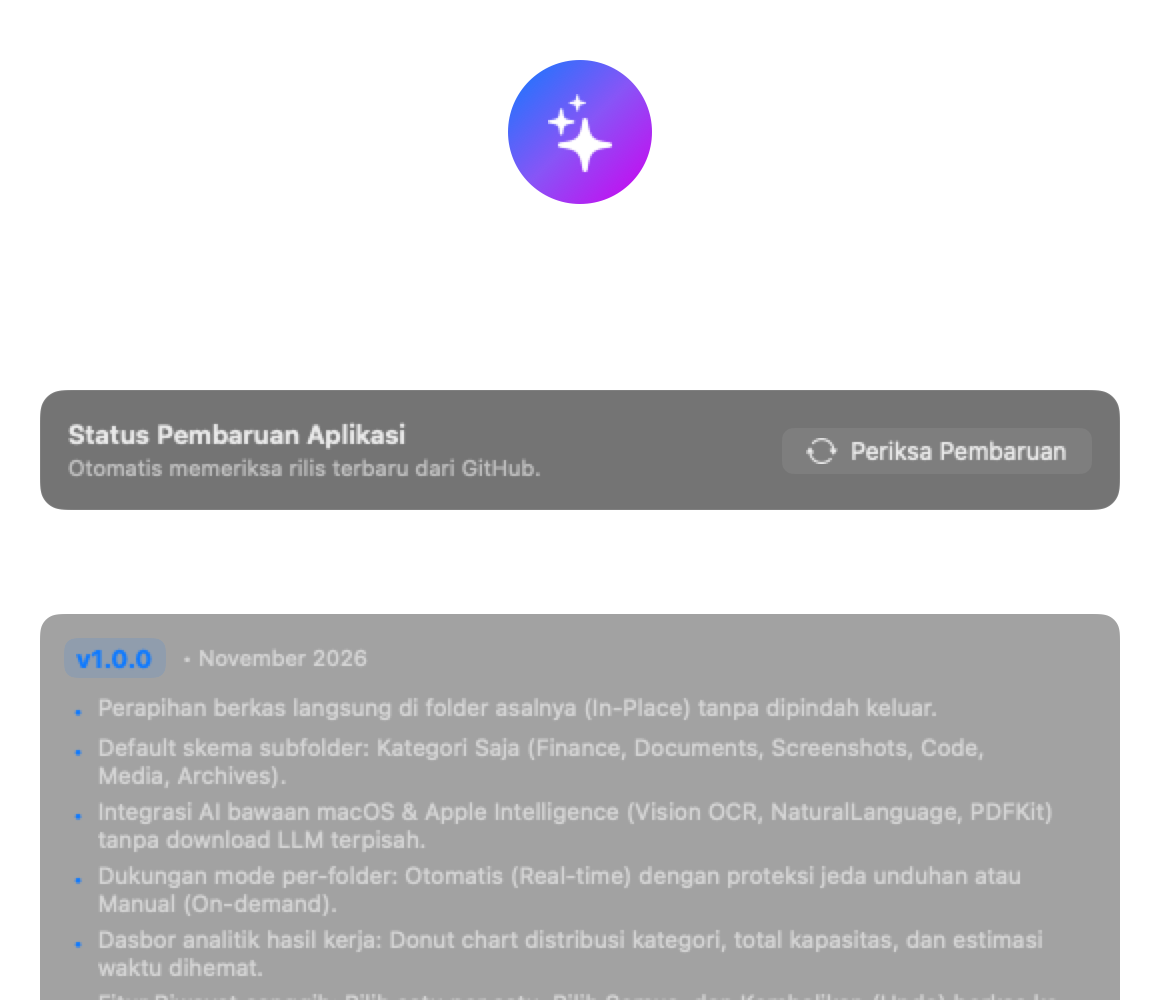
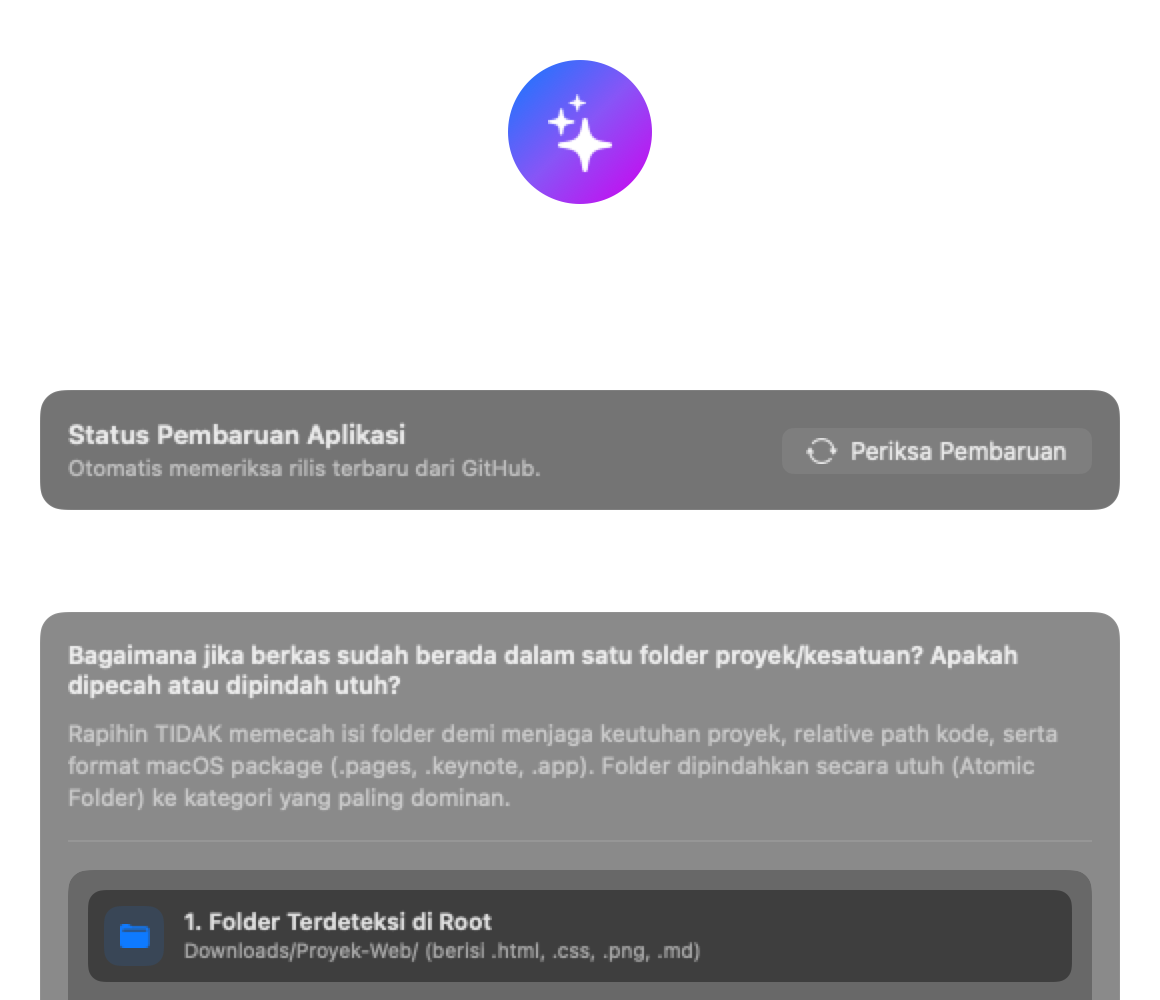
docs: add folder integrity architecture, workflow explanation and visual diagram in About view

Changed region(s): [[0.031, 0.62, 0.9621, 1.0]]

diff --git a/Sources/Rapihin/Views/AboutView.swift b/Sources/Rapihin/Views/AboutView.swift
@@ -108,6 +108,9 @@ public struct AboutView: View {
                         )
                 )
                 
+                // Folder Integrity & Architecture Explanation (Diagram)
+                folderIntegritySection
+                
                 // Changelog Section
                 VStack(alignment: .leading, spacing: 14) {
                     HStack {
@@ -185,5 +188,148 @@ public struct AboutView: View {
             }
             .padding(20)
         }
+    }
+    
+    // MARK: - Folder Integrity & Architecture Section
+    private var folderIntegritySection: some View {
+        VStack(alignment: .leading, spacing: 14) {
+            HStack {
+                Label(
+                    l10n.language == .indonesian ? "Perlakuan Folder & Integritas Data" : "Folder Integrity & Architecture",
+                    systemImage: "folder.badge.gearshape"
+                )
+                .font(.system(size: 14, weight: .bold, design: .rounded))
+                Spacer()
+            }
+            
+            VStack(alignment: .leading, spacing: 10) {
+                Text(l10n.language == .indonesian ?
+                     "Bagaimana jika berkas sudah berada dalam satu folder proyek/kesatuan? Apakah dipecah atau dipindah utuh?" :
+                     "How does Rapihin treat unified folders? Are contents split or moved as a whole?")
+                    .font(.system(size: 12, weight: .semibold))
+                    .foregroundColor(.primary)
+                
+                Text(l10n.language == .indonesian ?
+                     "Rapihin TIDAK memecah isi folder demi menjaga keutuhan proyek, relative path kode, serta format macOS package (.pages, .keynote, .app). Folder dipindahkan secara utuh (Atomic Folder) ke kategori yang paling dominan." :
+                     "Rapihin DOES NOT break apart folder contents, preserving project relative paths and macOS package bundles (.pages, .keynote, .app). The entire folder is moved atomically to its dominant category.")
+                    .font(.system(size: 11.5))
+                    .foregroundColor(.secondary)
+                    .lineSpacing(2)
+                
+                Divider()
+                    .padding(.vertical, 4)
+                
+                // Visual Architecture Diagram
+                VStack(spacing: 8) {
+                    diagramNode(
+                        title: l10n.language == .indonesian ? "1. Folder Terdeteksi di Root" : "1. Folder Detected at Root",
+                        subtitle: "Downloads/Proyek-Web/ (berisi .html, .css, .png, .md)",
+                        icon: "folder.fill",
+                        color: .blue
+                    )
+                    
+                    Image(systemName: "arrow.down")
+                        .font(.system(size: 11, weight: .bold))
+                        .foregroundColor(.secondary)
+                    
+                    diagramNode(
+                        title: l10n.language == .indonesian ? "2. Analisis Konteks AI (Dominant Context)" : "2. AI Context Analysis (Dominant Context)",
+                        subtitle: l10n.language == .indonesian ? "Mendeteksi mayoritas isi adalah kode pengembangan & web assets" : "Detects majority contents are source code & web assets",
+                        icon: "sparkles",
+                        color: .purple
+                    )
+                    
+                    Image(systemName: "arrow.down")
+                        .font(.system(size: 11, weight: .bold))
+                        .foregroundColor(.secondary)
+                    
+                    diagramNode(
+                        title: l10n.language == .indonesian ? "3. Dipindahkan UTUH (Atomic Move)" : "3. Moved as an Intact Whole (Atomic Move)",
+                        subtitle: "Downloads/Code/Proyek-Web/ (Struktur internal 100% aman & berfungsi)",
+                        icon: "checkmark.shield.fill",
+                        color: .green
+                    )
+                }
+                .padding(10)
+                .background(Color(nsColor: .controlBackgroundColor).opacity(0.3))
+                .cornerRadius(10)
+                
+                // Key Guarantees Bullet Points
+                HStack(spacing: 12) {
+                    guaranteeBadge(
+                        title: l10n.language == .indonesian ? "Integritas Kode" : "Code Integrity",
+                        desc: l10n.language == .indonesian ? "Relative path aman" : "Preserves paths",
+                        icon: "curlybraces"
+                    )
+                    guaranteeBadge(
+                        title: l10n.language == .indonesian ? "Keamanan Bundle" : "Bundle Safe",
+                        desc: l10n.language == .indonesian ? ".app, .pages aman" : ".app, .pages safe",
+                        icon: "shippingbox.fill"
+                    )
+                    guaranteeBadge(
+                        title: l10n.language == .indonesian ? "Bebas Rekursif" : "Anti-Loop",
+                        desc: l10n.language == .indonesian ? "Subfolder dikunci" : "Subfolders locked",
+                        icon: "lock.shield.fill"
+                    )
+                }
+                .padding(.top, 4)
+            }
+            .padding(14)
+            .background(
+                RoundedRectangle(cornerRadius: 12)
+                    .fill(Color(nsColor: .controlBackgroundColor).opacity(0.5))
+                    .overlay(
+                        RoundedRectangle(cornerRadius: 12)
+                            .stroke(Color.white.opacity(0.06), lineWidth: 1)
+                    )
+            )
+        }
+    }
+    
+    private func diagramNode(title: String, subtitle: String, icon: String, color: Color) -> some View {
+        HStack(spacing: 10) {
+            ZStack {
+                RoundedRectangle(cornerRadius: 8, style: .continuous)
+                    .fill(color.opacity(0.12))
+                    .frame(width: 30, height: 30)
+                Image(systemName: icon)
+                    .font(.system(size: 13, weight: .semibold))
+                    .foregroundColor(color)
+            }
+            
+            VStack(alignment: .leading, spacing: 1) {
+                Text(title)
+                    .font(.system(size: 11.5, weight: .semibold))
+                Text(subtitle)
+                    .font(.system(size: 10))
+                    .foregroundColor(.secondary)
+            }
+            
+            Spacer()
+        }
+        .padding(8)
+        .background(
+            RoundedRectangle(cornerRadius: 8)
+                .fill(Color(nsColor: .controlBackgroundColor).opacity(0.5))
+        )
+    }
+    
+    private func guaranteeBadge(title: String, desc: String, icon: String) -> some View {
+        HStack(spacing: 6) {
+            Image(systemName: icon)
+                .font(.system(size: 11))
+                .foregroundColor(.blue)
+            VStack(alignment: .leading, spacing: 1) {
+                Text(title)
+                    .font(.system(size: 10.5, weight: .bold))
+                Text(desc)
+                    .font(.system(size: 9))
+                    .foregroundColor(.secondary)
+            }
+        }
+        .frame(maxWidth: .infinity, alignment: .leading)
+        .padding(8)
+        .background(Color.blue.opacity(0.06))
+        .cornerRadius(8)
     }
 }

diff --git a/Sources/Rapihin/Services/OrganizerEngine.swift b/Sources/Rapihin/Services/OrganizerEngine.swift
@@ -138,16 +138,24 @@ public final class OrganizerEngine: ObservableObject {
     public func recalculatePendingFiles() {
         let fm = FileManager.default
         var total = 0
+        let categoryNames = Set(FileCategory.allCases.map { $0.folderName })
         
         for folder in monitoredFolders {
             let url = URL(fileURLWithPath: folder.path)
             if let contents = try? fm.contentsOfDirectory(at: url, includingPropertiesForKeys: [.isRegularFileKey], options: [.skipsHiddenFiles]) {
                 for item in contents {
                     var isDir: ObjCBool = false
-                    if fm.fileExists(atPath: item.path, isDirectory: &isDir), !isDir.boolValue {
-                        let ext = item.pathExtension.lowercased()
-                        if ext != "crdownload" && ext != "download" && ext != "part" {
-                            total += 1
+                    if fm.fileExists(atPath: item.path, isDirectory: &isDir) {
+                        let name = item.lastPathComponent
+                        if isDir.boolValue {
+                            if !categoryNames.contains(name) {
+                                total += 1
+                            }
+                        } else {
+                            let ext = item.pathExtension.lowercased()
+                            if ext != "crdownload" && ext != "download" && ext != "part" {
+                                total += 1
+                            }
                         }
                     }
                 }
@@ -195,6 +203,14 @@ public final class OrganizerEngine: ObservableObject {
         for fileURL in files {
             var isDir: ObjCBool = false
             if fm.fileExists(atPath: fileURL.path, isDirectory: &isDir), isDir.boolValue {
+                let name = fileURL.lastPathComponent
+                if FileCategory.allCases.contains(where: { $0.folderName == name }) {
+                    continue
+                }
+                let success = await organizeFolderAsUnit(fileURL, in: folder)
+                if success {
+                    count += 1
+                }
                 continue
             }
             
@@ -209,6 +225,82 @@ public final class OrganizerEngine: ObservableObject {
             }
         }
         return count
+    }
+    
+    @discardableResult
+    public func organizeFolderAsUnit(_ folderURL: URL, in monitoredFolder: MonitoredFolder) async -> Bool {
+        let fm = FileManager.default
+        let folderName = folderURL.lastPathComponent
+        
+        // Guard: Don't organize category folders
+        if FileCategory.allCases.contains(where: { $0.folderName == folderName }) {
+            return false
+        }
+        
+        // Determine dominant category of the folder
+        let category = await determineDominantCategory(for: folderURL)
+        
+        // Destination directory inside the same monitored folder
+        let destinationDir = calculateDestinationDirectory(base: monitoredFolder.path, category: category, fileURL: folderURL)
+        
+        // Guard against moving into itself
+        if destinationDir.path == folderURL.deletingLastPathComponent().path {
+            return false
+        }
+        
+        try? fm.createDirectory(at: destinationDir, withIntermediateDirectories: true)
+        
+        let finalDestinationURL = getUniqueDestinationURL(in: destinationDir, preferredName: folderName)
+        if folderURL.path == finalDestinationURL.path {
+            return false
+        }
+        
+        do {
+            try fm.moveItem(at: folderURL, to: finalDestinationURL)
+            let record = OrganizedItem(
+                originalPath: folderURL.path,
+                newPath: finalDestinationURL.path,
+                fileName: "📁 \(folderName)",
+                category: category,
+                timestamp: Date(),
+                fileSize: 0
+            )
+            history.insert(record, at: 0)
+            saveHistory()
+            return true
+        } catch {
+            print("[OrganizerEngine] Failed to move unified folder: \(error)")
+            return false
+        }
+    }
+    
+    private func determineDominantCategory(for folderURL: URL) async -> FileCategory {
+        let fm = FileManager.default
+        let folderName = folderURL.lastPathComponent.lowercased()
+        
+        // Name-based hints
+        if folderName.contains("code") || folderName.contains("project") || folderName.contains("app") || folderName.contains("web") || folderName.contains("git") {
+            return .code
+        }
+        if folderName.contains("invoice") || folderName.contains("keuangan") || folderName.contains("tagihan") || folderName.contains("slip") || folderName.contains("tax") {
+            return .finance
+        }
+        if folderName.contains("photo") || folderName.contains("foto") || folderName.contains("video") || folderName.contains("music") || folderName.contains("lagu") {
+            return .media
+        }
+        
+        // Sample files inside
+        guard let items = try? fm.contentsOfDirectory(at: folderURL, includingPropertiesForKeys: nil, options: [.skipsHiddenFiles]) else {
+            return .other
+        }
+        
+        var categoryCounts: [FileCategory: Int] = [:]
+        for item in items.prefix(15) {
+            let cat = await classifier.classify(url: item)
+            categoryCounts[cat, default: 0] += 1
+        }
+        
+        return categoryCounts.max(by: { $0.value < $1.value })?.key ?? .documents
     }
     
     @discardableResult

diff --git a/Casks/rapihin.rb b/Casks/rapihin.rb
@@ -1,6 +1,6 @@
 cask "rapihin" do
   version "1.0.0"
[2 lines of base64/hex data omitted]
 
   url "https://github.com/ardith666/rapihin/releases/download/v#{version}/Rapihin-#{version}.dmg"
   name "Rapihin"
